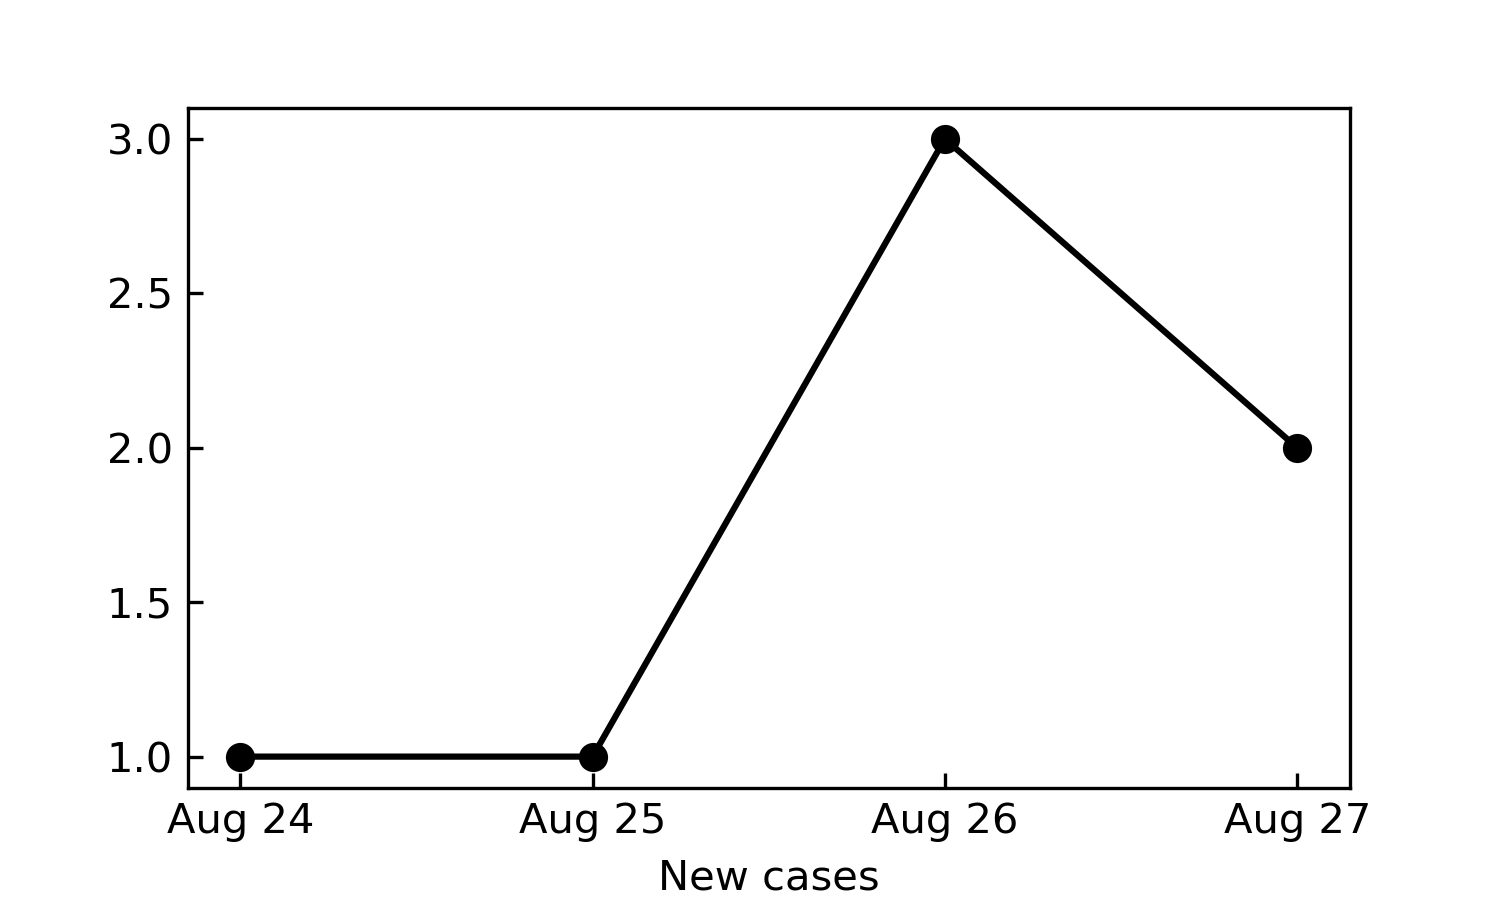
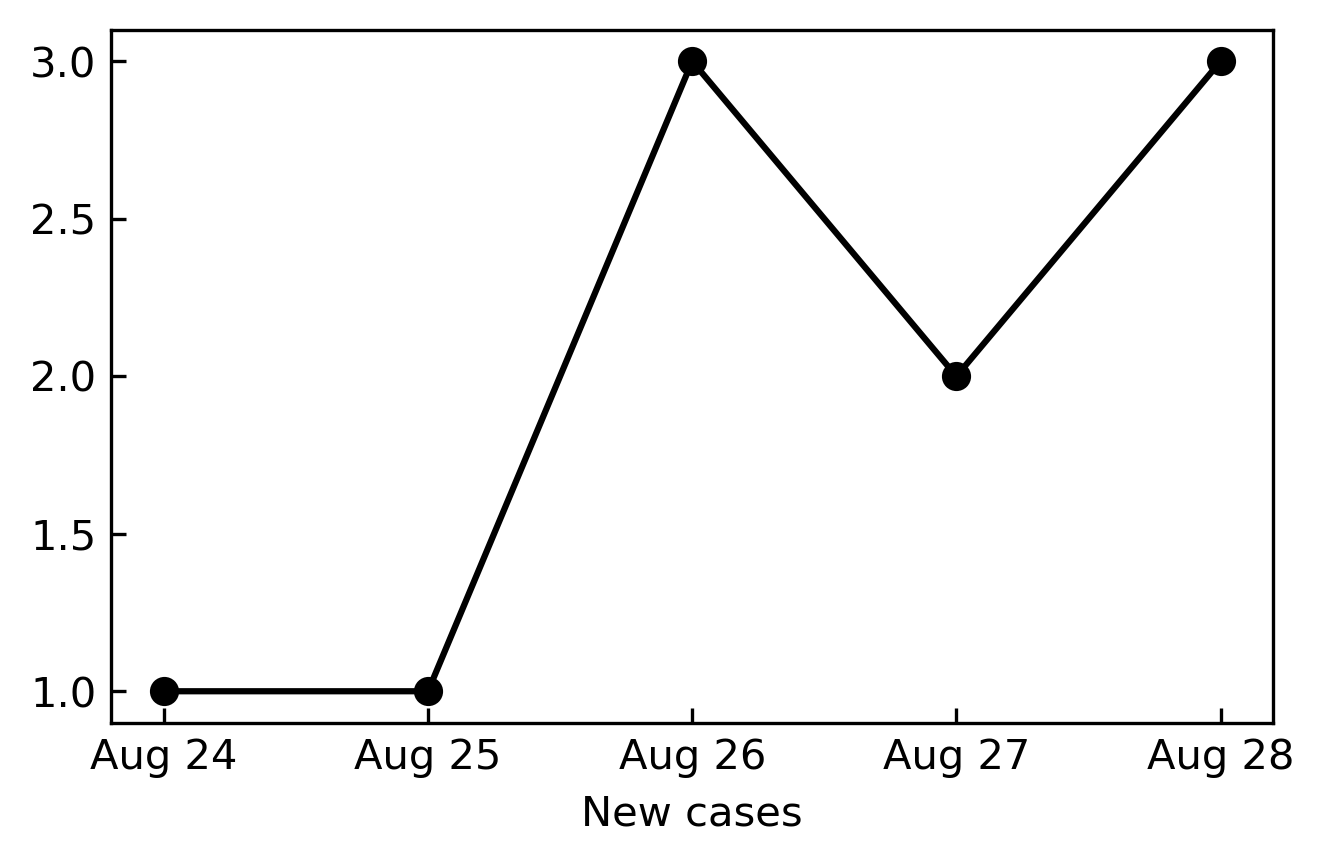
add data

diff --git a/index.html b/index.html
@@ -21,9 +21,10 @@
       </div>
       <div class="col-md">
         <h2>Source</h2>
+        <blockquote class="twitter-tweet"><p lang="en" dir="ltr">Three new cases of COVID-19 (coronavirus) have been confirmed to the Rensselaer County Health Department, it was announced Friday.<br>The new cases bring the total number of confirmed cases to 872. There are now 47 active cases in the county. <a href="https://t.co/0c6AHpebZo">pic.twitter.com/0c6AHpebZo</a></p>&mdash; RensselaerCo.Exec (@RenscoExecutive) <a href="https://twitter.com/RenscoExecutive/status/1299433369009348614?ref_src=twsrc%5Etfw">August 28, 2020</a></blockquote> <script async src="https://platform.twitter.com/widgets.js" charset="utf-8"></script>
         <blockquote class="twitter-tweet" data-dnt="true"><p lang="en" dir="ltr">Two new cases of COVID-19 (coronavirus) have been confirmed to the Rensselaer County Health Department, it was announced Thursday.<br>The new cases bring the total number of confirmed cases to 869. There are now 52 active cases: <a href="https://t.co/fqusrtwPGl">https://t.co/fqusrtwPGl</a></p>&mdash; RensselaerCo.Exec (@RenscoExecutive) <a href="https://twitter.com/RenscoExecutive/status/1299079233109733381?ref_src=twsrc%5Etfw">August 27, 2020</a></blockquote> <script async src="https://platform.twitter.com/widgets.js" charset="utf-8"></script>
         <blockquote class="twitter-tweet" data-dnt="true"><p lang="en" dir="ltr">Three new cases of COVID-19 (coronavirus) have been confirmed to the Rensselaer County Health Department, it was announced Wednesday.<br>The new case bring the total number of confirmed cases to 867. There are now 55 active cases: <a href="https://t.co/nQsw1HtTHr">https://t.co/nQsw1HtTHr</a></p>&mdash; RensselaerCo.Exec (@RenscoExecutive) <a href="https://twitter.com/RenscoExecutive/status/1298723501877022724?ref_src=twsrc%5Etfw">August 26, 2020</a></blockquote> <script async src="https://platform.twitter.com/widgets.js" charset="utf-8"></script>
-        <blockquote class="twitter-tweet" data-dnt="true"><p lang="en" dir="ltr">Single new case of COVID-19 confirmed to Rensselaer County Health Department, it was announced on Tuesday.<br>Tuesday is 2nd consecutive day county has reported 1 new case, following Sunday w/ no cases. County now has 864 confirmed cases, w/ 55 active cases: <a href="https://t.co/fqusrtwPGl">https://t.co/fqusrtwPGl</a></p>&mdash; RensselaerCo.Exec (@RenscoExecutive) <a href="https://twitter.com/RenscoExecutive/status/1298354402172993536?ref_src=twsrc%5Etfw">August 25, 2020</a></blockquote> <script async src="https://platform.twitter.com/widgets.js" charset="utf-8"></script> 
+        <blockquote class="twitter-tweet" data-dnt="true"><p lang="en" dir="ltr">Single new case of COVID-19 confirmed to Rensselaer County Health Department, it was announced on Tuesday.<br>Tuesday is 2nd consecutive day county has reported 1 new case, following Sunday w/ no cases. County now has 864 confirmed cases, w/ 55 active cases: <a href="https://t.co/fqusrtwPGl">https://t.co/fqusrtwPGl</a></p>&mdash; RensselaerCo.Exec (@RenscoExecutive) <a href="https://twitter.com/RenscoExecutive/status/1298354402172993536?ref_src=twsrc%5Etfw">August 25, 2020</a></blockquote> <script async src="https://platform.twitter.com/widgets.js" charset="utf-8"></script>
         <blockquote class="twitter-tweet" data-dnt="true"><p lang="en" dir="ltr">A single case of COVID-19 (coronavirus) has been confirmed to Rensselaer County Health Department on Monday.<br>The single case Monday follows announcement on Sunday of no new cases. The zero new cases on Sunday was the first day with no cases since July 13: <a href="https://t.co/fqusrtwPGl">https://t.co/fqusrtwPGl</a></p>&mdash; RensselaerCo.Exec (@RenscoExecutive) <a href="https://twitter.com/RenscoExecutive/status/1298004050911297536?ref_src=twsrc%5Etfw">August 24, 2020</a></blockquote> <script async src="https://platform.twitter.com/widgets.js" charset="utf-8"></script>
       </div>
     </div>

diff --git a/plots.py b/plots.py
@@ -8,7 +8,7 @@ plt.plot(dates, cases, 'ko-')
 plt.tick_params(direction='in')
 plt.xlabel('Date')
 plt.xlabel('New cases')
-plt.savefig('new_cases.png', dpi=300)
+plt.savefig('new_cases.png', dpi=300, bbox_inches='tight')
 
 plt.figure(figsize=(5,3))
 cases = np.loadtxt('cases.dat')
@@ -17,6 +17,6 @@ plt.plot(dates, np.cumsum(cases), 'ko-')
 plt.tick_params(direction='in')
 plt.xlabel('Date')
 plt.xlabel('Cumulative count')
-plt.savefig('total_cases.png', dpi=300)
+plt.savefig('total_cases.png', dpi=300, bbox_inches='tight')
 
 plt.show()

diff --git a/README.md b/README.md
@@ -3,3 +3,10 @@
 Since colleges and schools are opening for the fall semester, many students have travelled to Rensselaer county from other counties and states. With increased mobility and population density among the students, it is expected that our county will experience a second wave of COVID-19 cases. This website is a humble attempt to track report cases and show the timeline.
 
 Data is picked up from the tweets for [Rensselaer county executive](https://twitter.com/RenscoExecutive)
+
+## How to add data?
+1. add the number of new cases to `cases.dat`, add zeros if no new cases
+2. Run the Python script `plots.py`
+3. Embed the relevant tweets to `index.html` in chronological order
+4. Open the `index.html` in a browser to verify
+5. Commit and push
